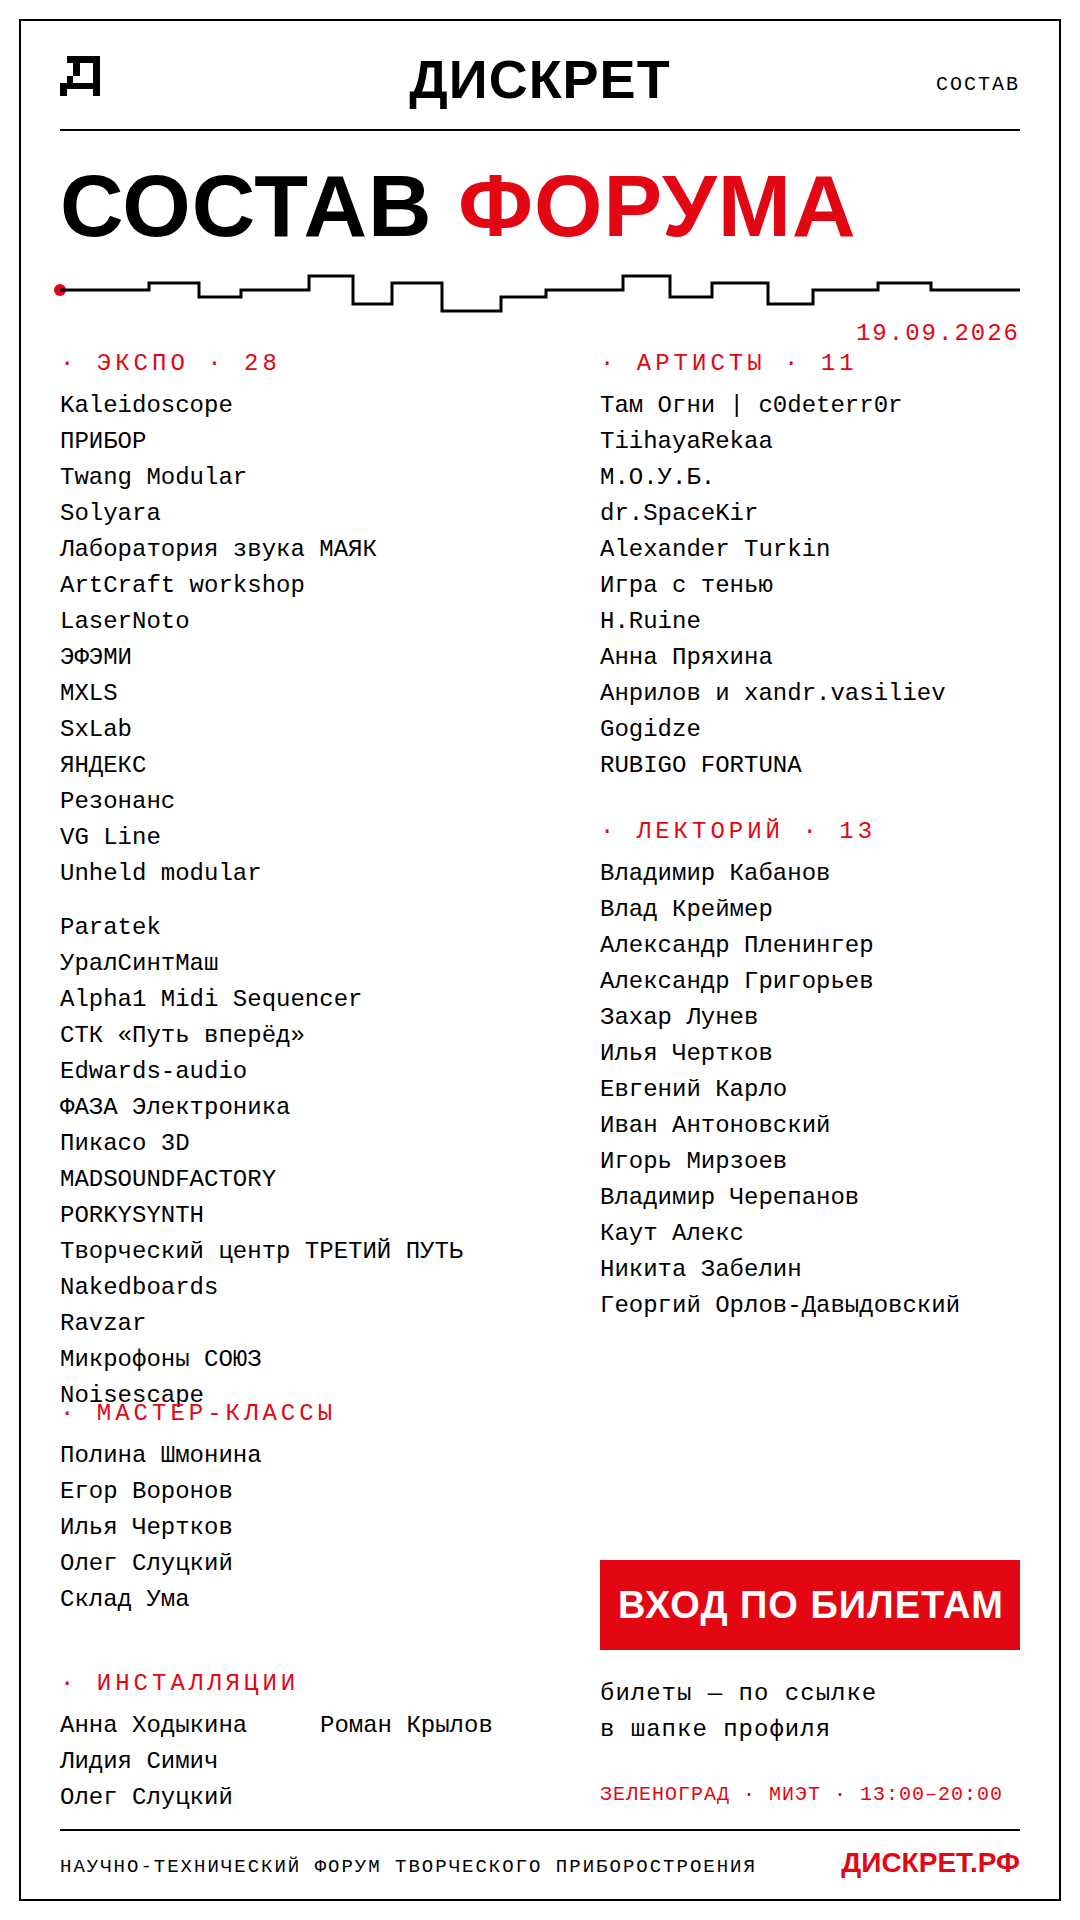
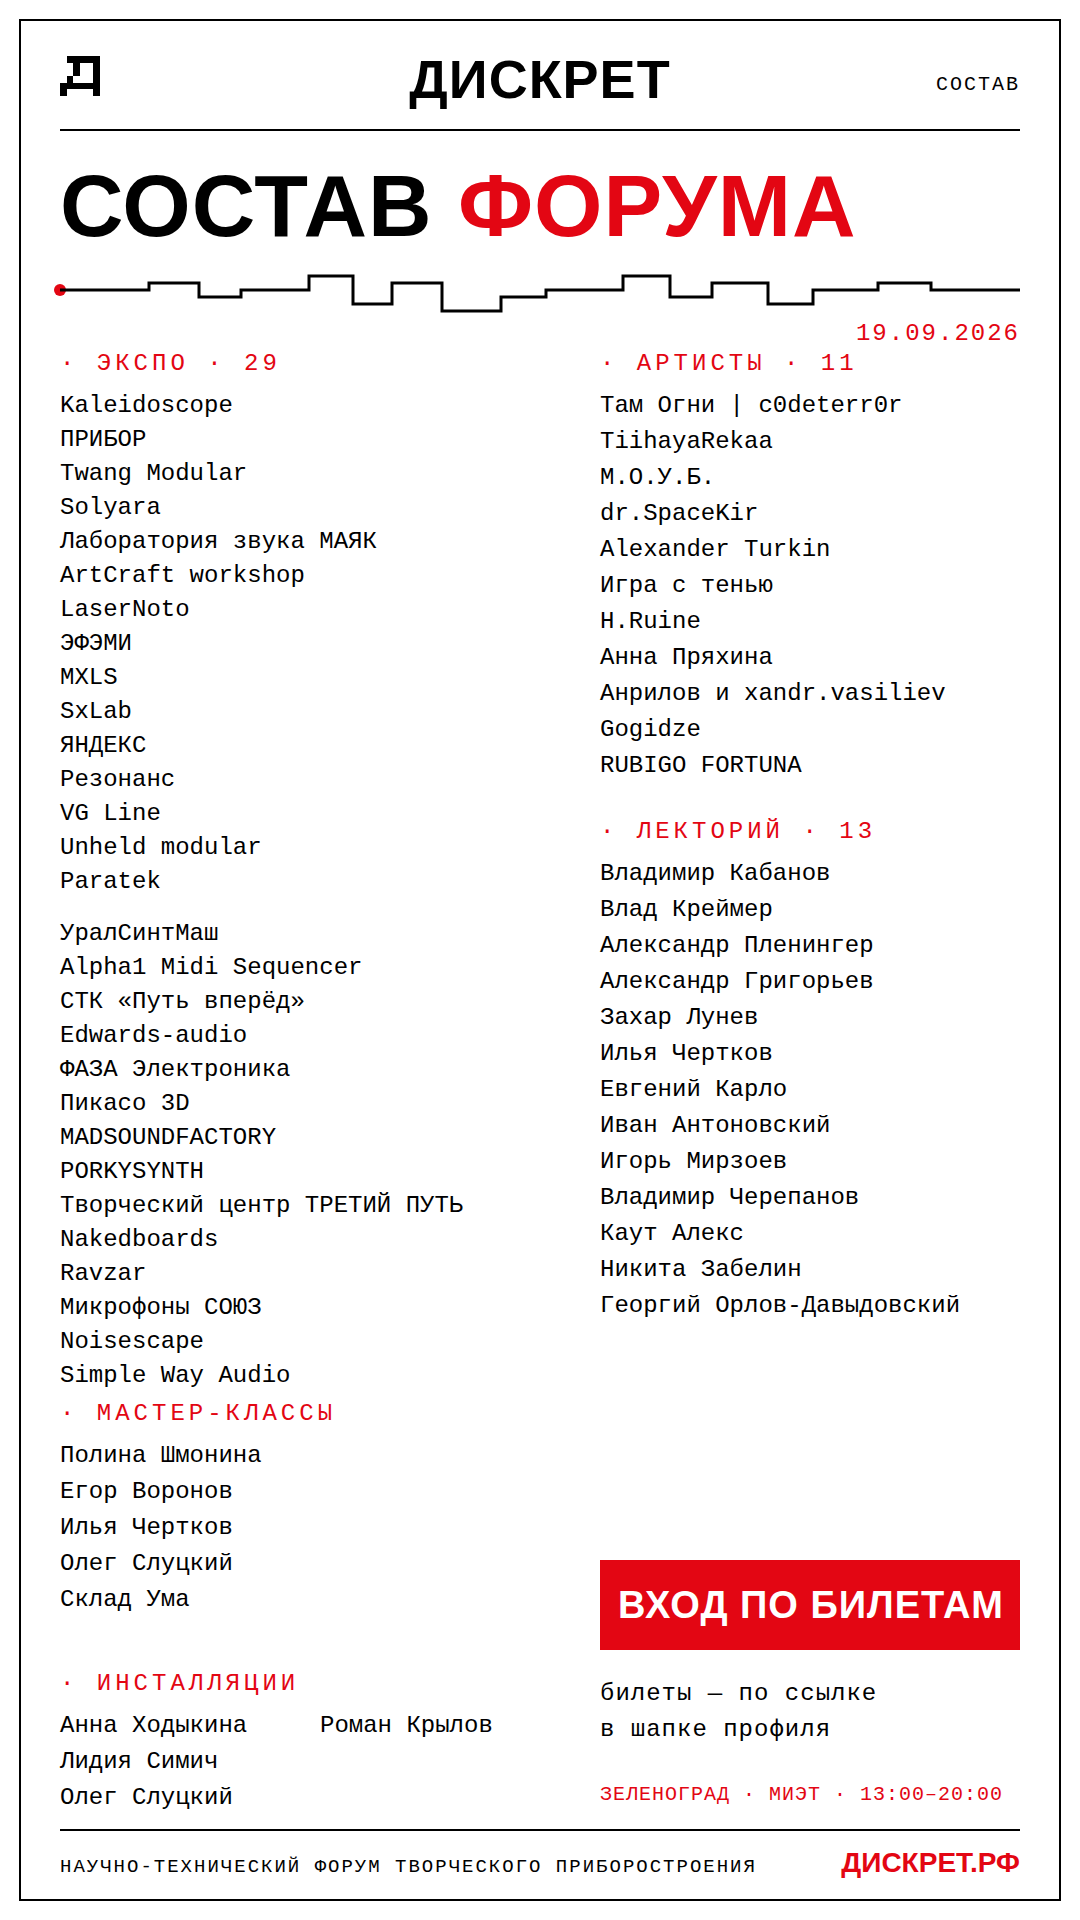
Simple Way Audio — 29-й участник экспо: карточка, афиша, инста, программа
Claude-Session: https://claude.ai/code/session_01J7cakNvVwscKzgnd8yf78u

Changed region(s): [[0.0306, 0.2188, 0.4278, 0.75]]

diff --git a/branding/app/index.html b/branding/app/index.html
@@ -396,7 +396,7 @@
 </div>
 
 <script>
-window.PHOTOS = {"ac1":"photos/ac1.jpg","ac2":"photos/ac2.jpg","alphaseq":"photos/alphaseq.jpg","arch1":"photos/arch1.jpg","arch2":"photos/arch2.jpg","astrovox":"photos/astrovox.jpg","bj":"photos/bj.jpg","bj2":"photos/bj2.jpg","bj3":"photos/bj3.jpg","hgx":"photos/hgx.jpg","hgx2":"photos/hgx2.jpg","hruine1":"photos/hruine1.jpg","laser":"photos/laser.jpg","laser1":"photos/laser1.jpg","laser2":"photos/laser2.jpg","lnlogo":"photos/lnlogo.png","lnreal":"photos/lnreal.png","moub1":"photos/moub1.jpg","para":"photos/para.jpg","para2":"photos/para2.jpg","para3":"photos/para3.jpg","shadow1":"photos/shadow1.jpg","shadow2":"photos/shadow2.jpg","spacekir1":"photos/spacekir1.jpg","sx":"photos/sx.jpg","sx2":"photos/sx2.jpg","sxlab":"photos/sxlab.jpg","tamogni1":"photos/tamogni1.jpg","tiihaya1":"photos/tiihaya1.jpg","tiihaya2":"photos/tiihaya2.jpg","tiihaya3":"photos/tiihaya3.jpg","tw":"photos/tw.jpg","tw2":"photos/tw2.jpg","tw3":"photos/tw3.jpg","tw4":"photos/tw4.jpg","vg":"photos/vg.jpg","vg1":"photos/vg1.jpg","vg2":"photos/vg2.jpg","vg3":"photos/vg3.jpg","kaledoscope":"photos/kaledoscope.jpg","unost":"photos/unost.jpg","nb1":"photos/nb1.jpg","nb2":"photos/nb2.jpg","nb3":"photos/nb3.jpg","kr1":"photos/kr1.jpg","kr2":"photos/kr2.jpg","edw1":"photos/edw1.jpg","edw2":"photos/edw2.jpg","edw3":"photos/edw3.jpg","faza1":"photos/faza1.jpg","rez1":"photos/rez1.jpg","rez2":"photos/rez2.jpg","rez3":"photos/rez3.jpg","porky1":"photos/porky1.jpg","moon1":"photos/moon1.jpg","prov1":"photos/prov1.jpg","prov2":"photos/prov2.jpg","sl1":"photos/sl1.jpg","sl2":"photos/sl2.jpg","org_novikov":"photos/org_novikov.jpg","org_grigoriev":"photos/org_grigoriev.jpg","org_slutsky":"photos/org_slutsky.jpg","org_boykov":"photos/org_boykov.jpg","tr1":"photos/tr1.jpg","mayak":"photos/mayak.jpg","pribor1":"photos/pribor1.jpg","lg_picaso":"photos/lg_picaso.svg","lg_soyuz":"photos/lg_soyuz.jpg","lg_baklazhania":"photos/lg_baklazhania.svg","lg_efemi":"photos/lg_efemi.svg","lg_angstrem":"photos/lg_angstrem.svg","lg_ioaudio":"photos/lg_ioaudio.svg","lg_flataudio":"photos/lg_flataudio.svg","lg_infoportal":"photos/lg_infoportal.svg","lg_lasernoto":"photos/lg_lasernoto.svg","lg_skladuma":"photos/lg_skladuma.png","lg_studiomarket":"photos/lg_studiomarket.png","lg_mworld":"photos/lg_mworld.png","lg_djstore":"photos/lg_djstore.png","ravzar1":"photos/ravzar1.png","lg_eightfloor":"photos/lg_eightfloor.png","lg_rezonit":"photos/lg_rezonit.png","lgm_rezonit":"photos/lgm_rezonit.png","lgm_djstore":"photos/lgm_djstore.png","lgm_picaso":"photos/lgm_picaso.png","lgm_miet":"photos/lgm_miet.png","soyuzlogo":"photos/soyuzlogo.png","noise1":"photos/noise1.jpg","noise2":"photos/noise2.jpg","noise3":"photos/noise3.jpg"};
+window.PHOTOS = {"ac1":"photos/ac1.jpg","ac2":"photos/ac2.jpg","alphaseq":"photos/alphaseq.jpg","arch1":"photos/arch1.jpg","arch2":"photos/arch2.jpg","astrovox":"photos/astrovox.jpg","bj":"photos/bj.jpg","bj2":"photos/bj2.jpg","bj3":"photos/bj3.jpg","hgx":"photos/hgx.jpg","hgx2":"photos/hgx2.jpg","hruine1":"photos/hruine1.jpg","laser":"photos/laser.jpg","laser1":"photos/laser1.jpg","laser2":"photos/laser2.jpg","lnlogo":"photos/lnlogo.png","lnreal":"photos/lnreal.png","moub1":"photos/moub1.jpg","para":"photos/para.jpg","para2":"photos/para2.jpg","para3":"photos/para3.jpg","shadow1":"photos/shadow1.jpg","shadow2":"photos/shadow2.jpg","spacekir1":"photos/spacekir1.jpg","sx":"photos/sx.jpg","sx2":"photos/sx2.jpg","sxlab":"photos/sxlab.jpg","tamogni1":"photos/tamogni1.jpg","tiihaya1":"photos/tiihaya1.jpg","tiihaya2":"photos/tiihaya2.jpg","tiihaya3":"photos/tiihaya3.jpg","tw":"photos/tw.jpg","tw2":"photos/tw2.jpg","tw3":"photos/tw3.jpg","tw4":"photos/tw4.jpg","vg":"photos/vg.jpg","vg1":"photos/vg1.jpg","vg2":"photos/vg2.jpg","vg3":"photos/vg3.jpg","kaledoscope":"photos/kaledoscope.jpg","unost":"photos/unost.jpg","nb1":"photos/nb1.jpg","nb2":"photos/nb2.jpg","nb3":"photos/nb3.jpg","kr1":"photos/kr1.jpg","kr2":"photos/kr2.jpg","edw1":"photos/edw1.jpg","edw2":"photos/edw2.jpg","edw3":"photos/edw3.jpg","faza1":"photos/faza1.jpg","rez1":"photos/rez1.jpg","rez2":"photos/rez2.jpg","rez3":"photos/rez3.jpg","porky1":"photos/porky1.jpg","moon1":"photos/moon1.jpg","prov1":"photos/prov1.jpg","prov2":"photos/prov2.jpg","sl1":"photos/sl1.jpg","sl2":"photos/sl2.jpg","org_novikov":"photos/org_novikov.jpg","org_grigoriev":"photos/org_grigoriev.jpg","org_slutsky":"photos/org_slutsky.jpg","org_boykov":"photos/org_boykov.jpg","tr1":"photos/tr1.jpg","mayak":"photos/mayak.jpg","pribor1":"photos/pribor1.jpg","lg_picaso":"photos/lg_picaso.svg","lg_soyuz":"photos/lg_soyuz.jpg","lg_baklazhania":"photos/lg_baklazhania.svg","lg_efemi":"photos/lg_efemi.svg","lg_angstrem":"photos/lg_angstrem.svg","lg_ioaudio":"photos/lg_ioaudio.svg","lg_flataudio":"photos/lg_flataudio.svg","lg_infoportal":"photos/lg_infoportal.svg","lg_lasernoto":"photos/lg_lasernoto.svg","lg_skladuma":"photos/lg_skladuma.png","lg_studiomarket":"photos/lg_studiomarket.png","lg_mworld":"photos/lg_mworld.png","lg_djstore":"photos/lg_djstore.png","ravzar1":"photos/ravzar1.png","lg_eightfloor":"photos/lg_eightfloor.png","lg_rezonit":"photos/lg_rezonit.png","lgm_rezonit":"photos/lgm_rezonit.png","lgm_djstore":"photos/lgm_djstore.png","lgm_picaso":"photos/lgm_picaso.png","lgm_miet":"photos/lgm_miet.png","soyuzlogo":"photos/soyuzlogo.png","noise1":"photos/noise1.jpg","noise2":"photos/noise2.jpg","noise3":"photos/noise3.jpg","swa1":"photos/swa1.png","swa2":"photos/swa2.png","swa3":"photos/swa3.png","swa4":"photos/swa4.png","swa5":"photos/swa5.png"};
 // фото лежат отдельными файлами в photos/ и подгружаются лениво
 const ORG = {
   inst: [
@@ -845,6 +845,10 @@ const C = [
     links:[{t:"TG",u:"https://t.me/noisescaperu"}],
     desc:"Noisescape создаёт шумовые коробочки, вдохновлённые мелодией, хаосом, индустриальными пейзажами и пост-апокалиптическими ритуалами звука.\n\nПриборы подходят для harsh noise, power electronics, эмбиента, chiptune и техно, а также для экспериментального семплирования и живых перформансов.",
     feat:"Шумовые генераторы и педали ручной сборки; harsh noise, power electronics, ambient, chiptune, techno; экспериментальное семплирование и живые выступления." },
+  { id:"swa", name:"Simple Way Audio", role:"Студийное и сценическое аудио · Москва", photos:["swa1","swa2","swa3","swa4","swa5"], members:["Пётр Глушков"],
+    links:[{t:"САЙТ",u:"https://simplewayaudio.ru"},{t:"TG",u:"https://t.me/simplewayaudio"}],
+    desc:"Российский производитель студийного и сценического аудио: микрофоны, преампы, дибоксы (активные и пассивные), предусилители и RIAA-корректоры. Класс А, КНИ от 0,0008%.\n\nНа экспо — конденсаторный микрофон SWA с блоком питания, стерео-дибокс BIBARREL, пассивные и активные дибоксы серии mini и предусилитель Vacuum V9.",
+    feat:"Схемы класса А на дискретных JFET; КНИ от 0,0008%; активные и пассивные дибоксы; микрофоны с внешним питанием; сделано в Москве." },
   { id:"bizarre", name:"Bizarre Jezabel", role:"Бутик модульных синтезаторов · Москва", photos:[], members:["Иван Краснов"],
     links:[{t:"САЙТ",u:"https://bizarrejezabel.com"}],
     desc:"Bizarre Jezabel — нишевый бутик-бренд модульных синтезаторов ручной сборки, созданный разработчиком Иваном Красновым. Модули высоко ценятся за уникальный гибридный звук, использование настоящих вакуумных ламп и оригинальный дизайн." },

diff --git a/branding/tools/gen_afisha_tg.js b/branding/tools/gen_afisha_tg.js
@@ -1,7 +1,7 @@
 const fs = require('fs');
 const OUT = __dirname + '/../renders/afisha';
 
-const EXPO = ['Kaleidoscope','ПРИБОР','Twang Modular','Solyara','Лаборатория звука МАЯК','ArtCraft workshop','LaserNoto','ЭФЭМИ','MXLS','SxLab','ЯНДЕКС','Резонанс','VG Line','Unheld modular','Paratek','УралСинтМаш','Alpha1 Midi Sequencer','СТК «Путь вперёд»','Edwards-audio','ФАЗА Электроника','Пикасо 3D','MADSOUNDFACTORY','PORKYSYNTH','Творческий центр ТРЕТИЙ ПУТЬ','Nakedboards','Ravzar','Микрофоны СОЮЗ','Noisescape'];
+const EXPO = ['Kaleidoscope','ПРИБОР','Twang Modular','Solyara','Лаборатория звука МАЯК','ArtCraft workshop','LaserNoto','ЭФЭМИ','MXLS','SxLab','ЯНДЕКС','Резонанс','VG Line','Unheld modular','Paratek','УралСинтМаш','Alpha1 Midi Sequencer','СТК «Путь вперёд»','Edwards-audio','ФАЗА Электроника','Пикасо 3D','MADSOUNDFACTORY','PORKYSYNTH','Творческий центр ТРЕТИЙ ПУТЬ','Nakedboards','Ravzar','Микрофоны СОЮЗ','Noisescape','Simple Way Audio'];
 const ARTISTS = ['Там Огни | c0deterr0r','TiihayaRekaa','М.О.У.Б.','dr.SpaceKir','Alexander Turkin','Игра с тенью','H.Ruine','Анна Пряхина','Артемий Анрилов и xandr.vasiliev','Gogidze','RUBIGO FORTUNA'];
 const LECTURES = ['Владимир Черепанов','Владимир Кабанов','Захар Лунев','Александр Григорьев','Александр Пленингер','Георгий Орлов-Давыдовский','Николай Козловский','Илья Чертков','Игорь Мирзоев','Каут Алекс','Иван Антоновский','Никита Забелин','Влад Креймер'];
 const WORKSHOPS = ['Воронов Егор','Полина Шмонина','Олег Слуцкий','Илья Чертков','Склад Ума'];
@@ -39,7 +39,7 @@ const svg = `<svg xmlns="http://www.w3.org/2000/svg" width="1080" height="1350" 
 <circle cx="60" cy="184" r="5" fill="#E30613"/>
 <polyline points="60,184 149,184 149,176 199,176 199,192 241,192 241,184 309,184 309,168 353,168 353,200 392,200 392,176 442,176 442,208 501,208 501,192 546,192 546,184 623,184 623,168 670,168 670,192 712,192 712,176 768,176 768,200 813,200 813,184 878,184 878,176 931,176 931,184 1020,184" fill="none" stroke="#000" stroke-width="2.5"/>
 
-${section(60, 240, 'ЭКСПО', EXPO, 28)}
+${section(60, 240, 'ЭКСПО', EXPO, 27)}
 ${section(575, 240, 'АРТИСТЫ', ARTISTS, 32)}
 ${section(575, 240 + 12*32 + 8, 'ЛЕКТОРИЙ', LECTURES, 30)}
 

diff --git a/branding/tools/gen_programma.js b/branding/tools/gen_programma.js
@@ -95,7 +95,7 @@ const svg = `<svg xmlns="http://www.w3.org/2000/svg" width="1080" height="1350" 
 <circle cx="60" cy="184" r="5" fill="#E30613"/>
 <polyline points="60,184 149,184 149,176 199,176 199,192 241,192 241,184 309,184 309,168 353,168 353,200 392,200 392,176 442,176 442,208 501,208 501,192 546,192 546,184 623,184 623,168 670,168 670,192 712,192 712,176 768,176 768,200 813,200 813,184 878,184 878,176 931,176 931,184 1020,184" fill="none" stroke="#000" stroke-width="2.5"/>
 
-<text x="60" y="230" font-family="'Courier New',monospace" font-size="22" letter-spacing="2" fill="#000">ЭКСПО РАБОТАЕТ 13:00–20:00 · 28 УЧАСТНИКОВ · ВХОД ПО БИЛЕТАМ</text>
+<text x="60" y="230" font-family="'Courier New',monospace" font-size="22" letter-spacing="2" fill="#000">ЭКСПО РАБОТАЕТ 13:00–20:00 · 29 УЧАСТНИКОВ · ВХОД ПО БИЛЕТАМ</text>
 
 ${col(60, LEFT, 296)}
 ${col(575, RIGHT, 296)}
